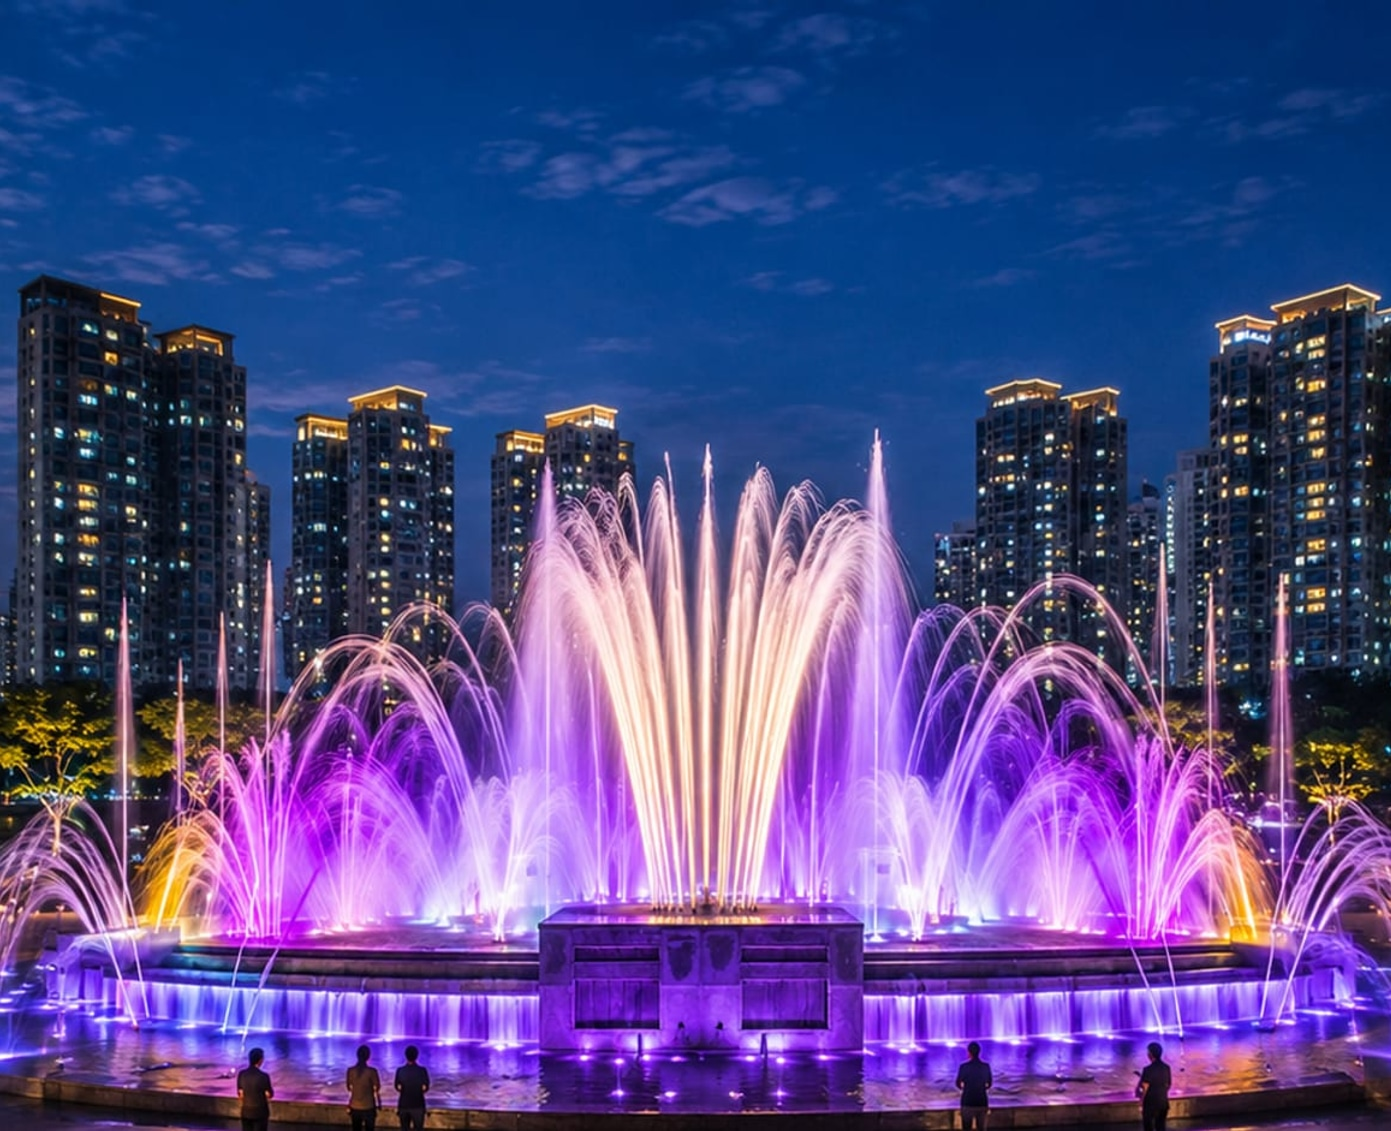
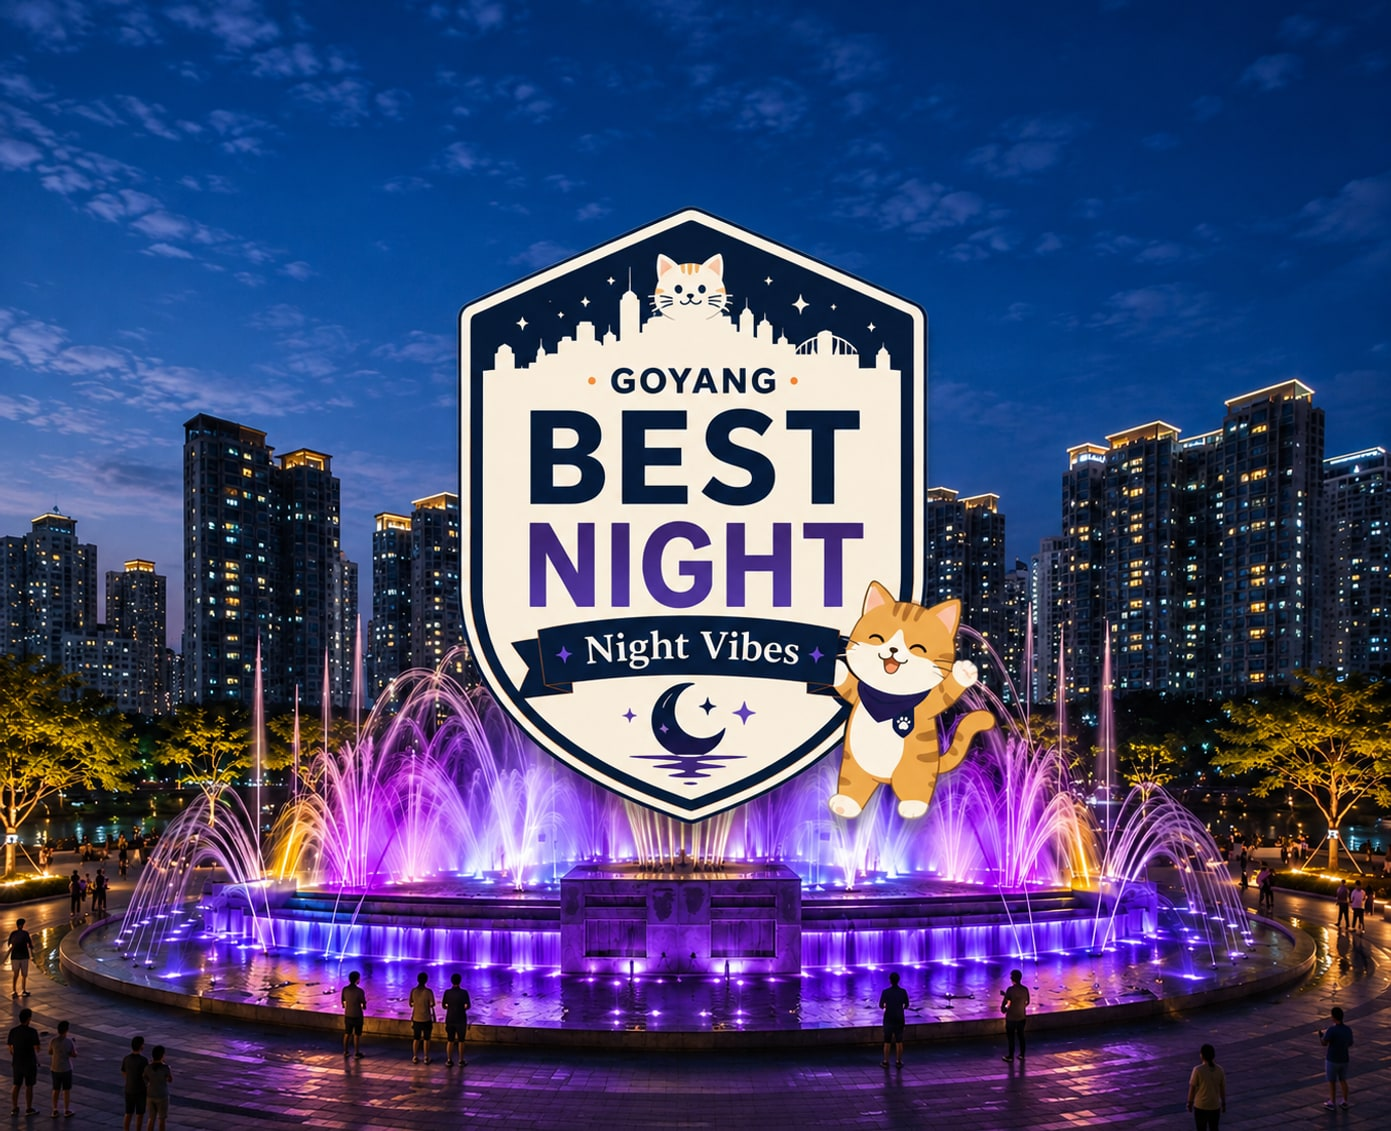
feat(emb3): EMB3 — 신규 합성 card 3장 적용 + PNG 오버레이 전면 해제 (#117)
■ 근거
shopping·stay·night 기존 card 이미지가 틀려서 사장님이 배지 합성본을
새로 만들어 올림. 파일명 충돌로 card-{cat}.jpg-1.png 로 저장됐던 것을
정식 card-{cat}.jpg 로 교체. 9장 전부 배지 합성본이므로 코드가 그리는
PNG 오버레이(#EMB2)도 전면 해제.

■ [1][2] 3장 교체 · card 계약 규격 재인코딩
- 신규본: 1355×1161 PNG 1.92-2.31MB → sharp 리사이즈
  · resize 1391×1131 fit:cover position:center (card 계약)
  · JPEG progressive mozjpeg quality 88
- 결과:
  · card-shopping.jpg  335 KB (신구본 351KB → 335KB 교체)
  · card-stay.jpg      236 KB (신구본 293KB → 236KB 교체)
  · card-night.jpg     326 KB (신구본 381KB → 326KB 교체)
  · 대역 236-335KB · 기존 6장 353-483KB 근접 (stay 는 sky·bed 저변량으로 하회)
- 원본 .jpg-1.png 3개 완전 삭제 · 잔존 0 확인

■ [3] CuratedGridSection 오버레이 전면 해제
components/home/CuratedGridSection.tsx:
- HAS_BAKED_EMBLEM 상수 삭제 (9장 전부 배지 합성본 → 조건부 불필요)
- 이미지 블록 내부 <Image src="/images/badges/badge-{cat}.png"> 오버레이 삭제
  (#EMB2 로 도입한 PNG 오버레이 로직 제거)
- Image 컴포넌트 로직은 card-{cat}.jpg 렌더만 유지
- 배지는 card 이미지 자체에서 노출 · 배경 처리 통일

■ 무접촉
- hero · badge 자산 파일
- 기존 6장 card (walk/food/culture/kculture/history/family) 무변경
- 다른 페이지 · DB · admin · 브랜드

■ CI 4체크 로컬 통과
- type-check ✓
- lint ✓ 0 errors (기존 45 warnings 유지)
- jest ✓ 227 passed
- next build ✓

Order #EMB3.

Claude-Session: https://claude.ai/code/session_01S89CKeLTTCWMFJHLKy7pz6

diff --git a/components/home/CuratedGridSection.tsx b/components/home/CuratedGridSection.tsx
@@ -99,11 +99,9 @@ function photoSrc(cat: EmblemCategory): string {
 //   (기존 6+3 은 전량 실사진 보유).
 const CARD_PHOTO_MISSING = new Set<EmblemCategory>();
 
-// 오더 #EMB [1]: card-{cat}.jpg 이미지 자체에 배지 도안이 인쇄된 카테고리.
-//   이 3장은 이미지 안 배지로 이미 노출 중 → 오버레이 SVG 안 그림 (이중 방지).
-//   나머지 6개 카드는 <Emblem> SVG 를 이미지 블록 중앙에 오버레이하여
-//   9/9 균일 노출. 사장님 옵션 B 확정 (2026-09-02).
-const HAS_BAKED_EMBLEM = new Set<EmblemCategory>(["kculture", "history", "family"]);
+// 오더 #EMB3: 9장 전부 배지 합성본으로 통일 (shopping/stay/night 신규 합성본
+//   교체 완료) → 오버레이 로직 전면 해제. HAS_BAKED_EMBLEM 집합 삭제.
+//   #EMB / #EMB2 시절의 SVG·PNG 오버레이 코드는 이 파일에서 제거.
 
 // 상위 3장(walk/food/culture)은 above-the-fold LCP 후보 → 배경 사진 priority
 const PRIORITY_CATEGORIES = new Set<EmblemCategory>([
@@ -215,28 +213,8 @@ function CuratedCard({
               onError={() => setPhotoBroken(true)}
             />
           )}
-          {/* 오더 #EMB2 [1]: 방패형 badge-{cat}.png 오버레이로 교체.
-              #EMB 의 원형 <Emblem> SVG 는 인쇄본 3장(kculture/history/family)
-              의 방패 모양과 불일치했음 → PNG 오버레이로 6장 통일.
-              HAS_BAKED_EMBLEM 3장은 이미지 인쇄본 유지 (이중 방지).
-              크기: 카드 폭 55% (인쇄본 규격 근접) · 정사각 · object-contain.
-              pointer-events-none · aria-hidden 유지. */}
-          {!HAS_BAKED_EMBLEM.has(category) && (
-            <div
-              aria-hidden="true"
-              className="pointer-events-none absolute inset-0 flex items-center justify-center"
-            >
-              <div className="relative aspect-square w-[55%] max-w-[220px]">
-                <Image
-                  src={`/images/badges/badge-${category}.png`}
-                  alt=""
-                  fill
-                  sizes="(max-width: 640px) 55vw, (max-width: 1024px) 28vw, 220px"
-                  className="object-contain drop-shadow-[0_8px_20px_rgba(0,0,0,0.25)]"
-                />
-              </div>
-            </div>
-          )}
+          {/* 오더 #EMB3: 9장 전부 배지 합성본이므로 오버레이 블록 삭제.
+              배지는 card-{cat}.jpg 이미지 자체에서 노출됨 (배경 처리 통일). */}
         </div>
 
         {/* [하단 — 텍스트 블록] 레이블 + 헤드라인 + 설명 + 자세히 보기 */}
